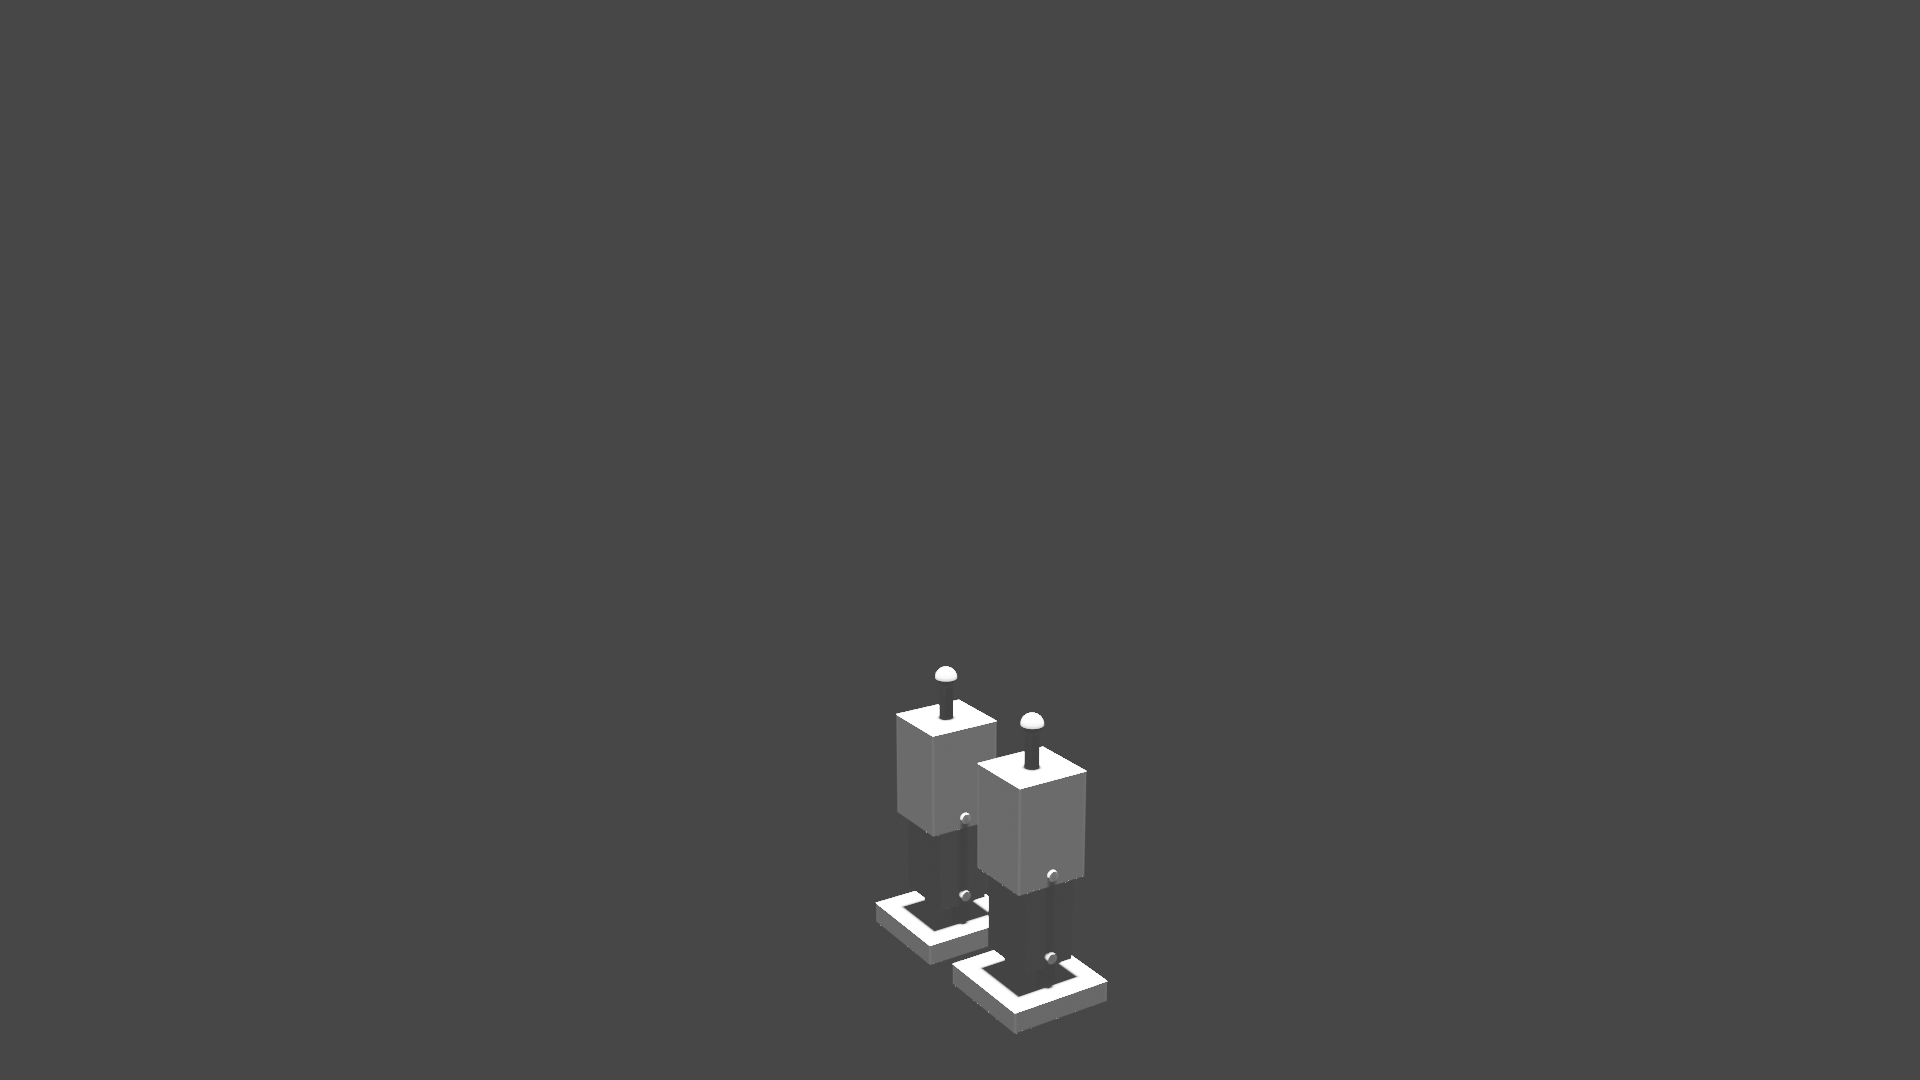
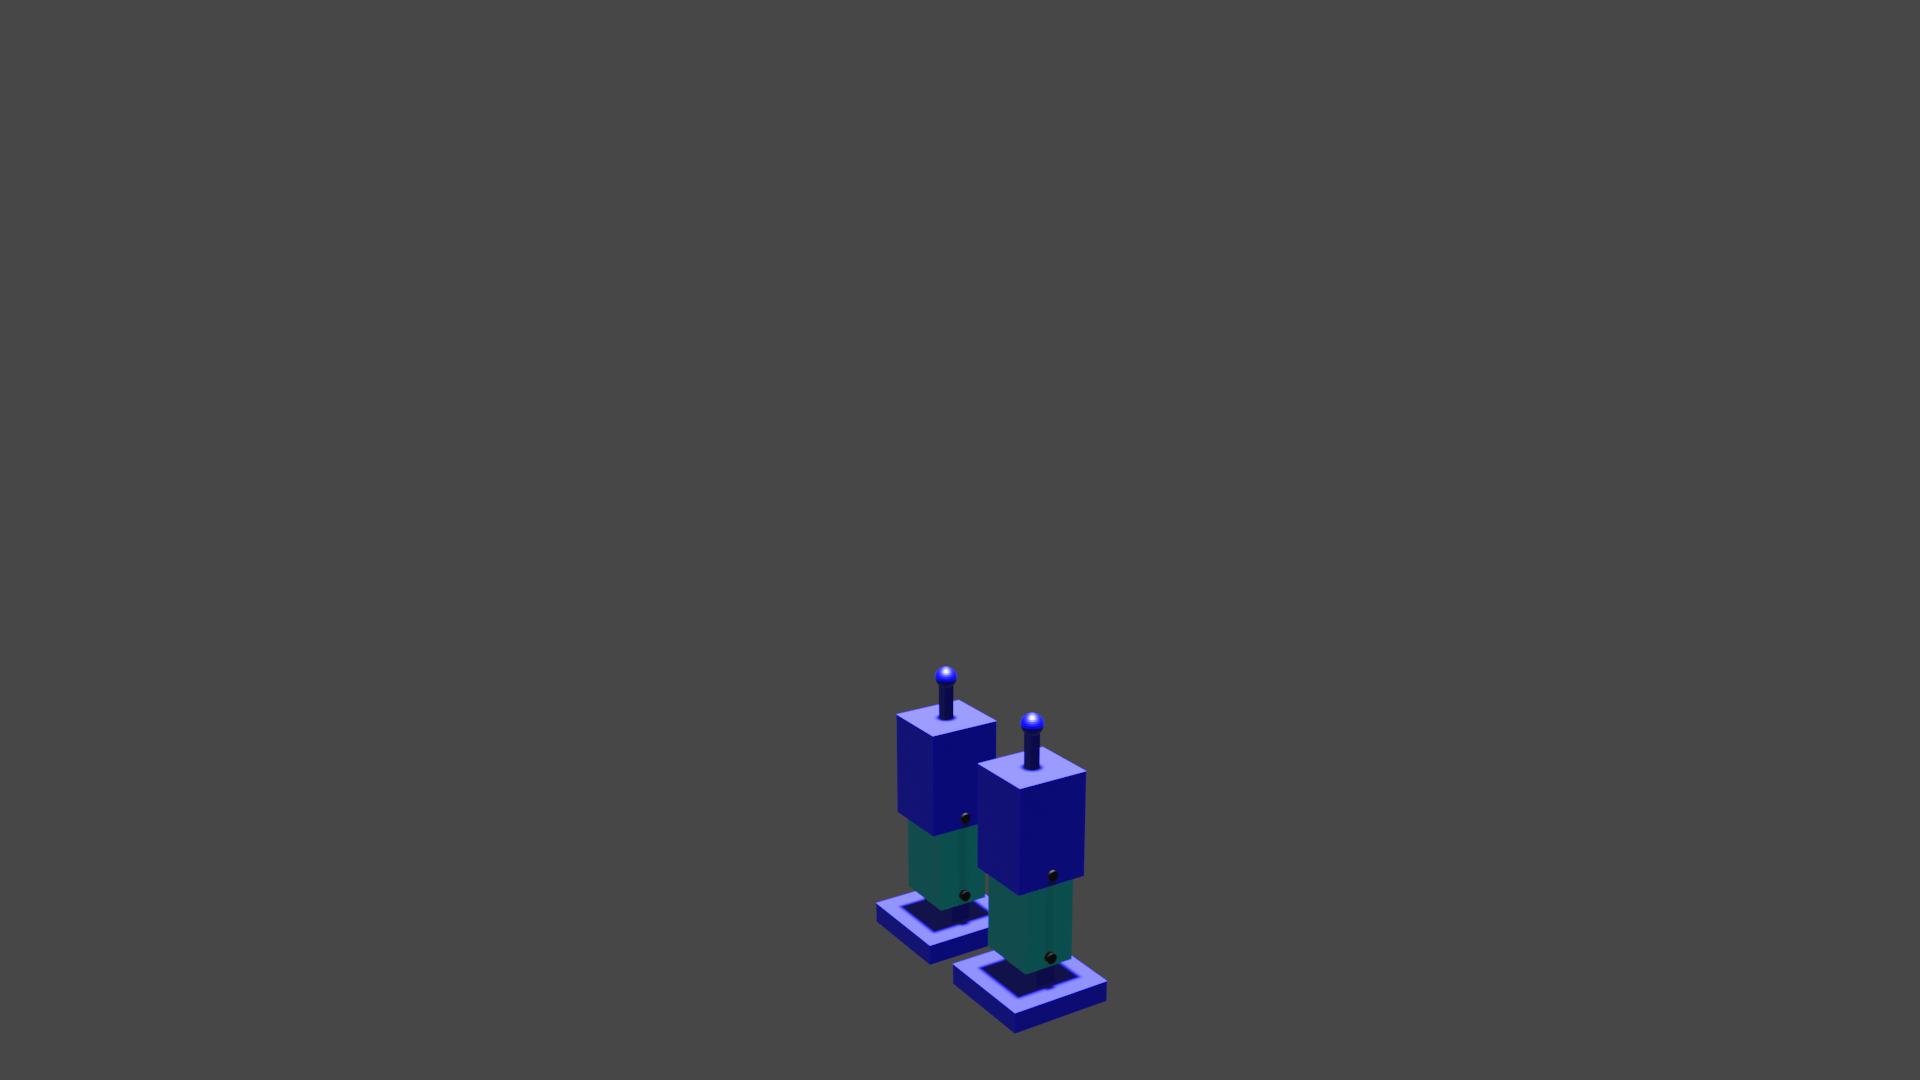
added color

Changed region(s): [[0.4375, 0.6111, 0.5938, 0.9472]]

diff --git a/robot_script.py b/robot_script.py
@@ -21,7 +21,7 @@ def juntarObjetos(nombreObjeto1,nombreObjeto2): # Seleccionar 2 objetos por su n
     Activo.renombrar(nombreObjeto1)
 
 def activarObjeto(nombreObjeto): # Activar un objeto por su nombre
-    bpy.context.scene.objects.active = bpy.data.objects[nombreObjeto]
+    bpy.context.view_layer.objects.active = bpy.data.objects[nombreObjeto]
 
 def borrarObjeto(nombreObjeto): # Borrar un objeto por su nombre
     seleccionarObjeto(nombreObjeto)
@@ -40,9 +40,10 @@ def cortarObjeto(objetoPrincipal,objetoMascara):
     bpy.ops.object.modifier_apply(apply_as='DATA', modifier="Boolean")
     
 def pintarObjeto(nombreObjeto,color):
-    seleccionarObjeto(nombreObjeto)
-    bpy.ops.material.new()
-    bpy.data.materials[bpy.context.object.active_material.name].node_tree.nodes["Principled BSDF"].inputs[0].default_value = color
+        activarObjeto(nombreObjeto)
+        material = bpy.data.materials.new("Mat")
+        bpy.context.active_object.data.materials.append(material)
+        bpy.context.object.active_material.diffuse_color = color
 
 '''****************************************************************'''
 '''Clase para realizar transformaciones sobre objetos seleccionados'''
@@ -210,6 +211,7 @@ if __name__ == "__main__":
 
     '''Pierna1'''
     crearPie("Foot1")
+
     crearPierna("Leg1")
     cortarObjeto("Leg1","Foot1")
     crearMuslo("Thigh1")
@@ -219,6 +221,12 @@ if __name__ == "__main__":
     
     seleccionarObjetos(("Foot1","Leg1","Thigh1","Axis1","Axis2"))
     Seleccionado.mover((0.35,0,0))
+    
+    pintarObjeto("Foot1",(0,0,1,1))
+    pintarObjeto("Leg1",(0,1,1,1))
+    pintarObjeto("Thigh1",(0,0,1,1))
+    pintarObjeto("Axis1",(0,0,0,1))
+    pintarObjeto("Axis2",(0,0,0,1))
     
     '''Pierna2'''
     
@@ -232,4 +240,10 @@ if __name__ == "__main__":
     
     seleccionarObjetos(("Foot2","Leg2","Thigh2","Axis3","Axis4"))
     Seleccionado.mover((-0.35,0,0))
+    
+    pintarObjeto("Foot2",(0,0,1,1))
+    pintarObjeto("Leg2",(0,1,1,1))
+    pintarObjeto("Thigh2",(0,0,1,1))
+    pintarObjeto("Axis3",(0,0,0,1))
+    pintarObjeto("Axis4",(0,0,0,1))
     
